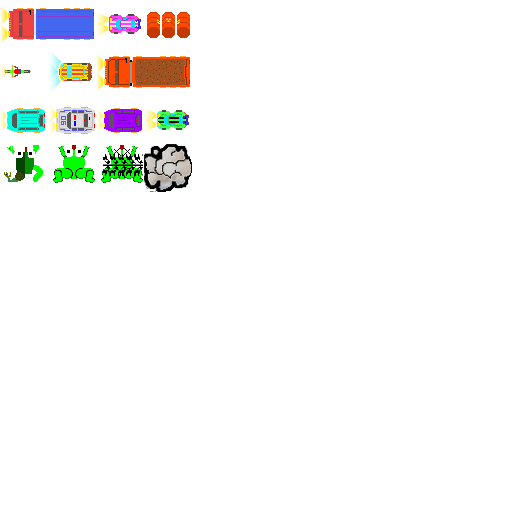
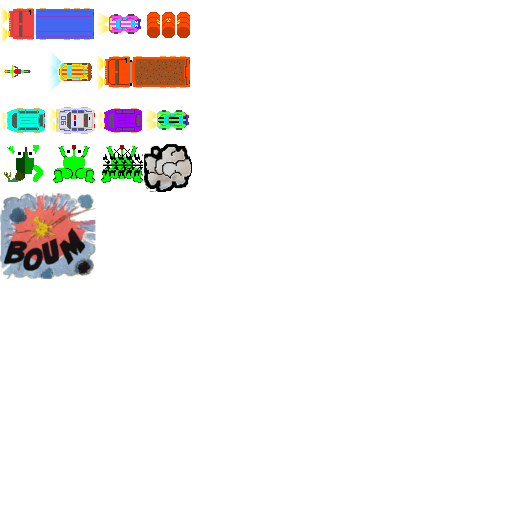
explosion des barils a une marge des frontieres du jeu, avec sprite
git-svn-id: https://svn.aep.polymtl.ca/svn/GCA3OursCureuil@66 05535eda-d6a5-4ac4-b685-4147b9d08a8c

Changed region(s): [[0.0, 0.375, 0.1875, 0.5625]]

diff --git a/ourscureuil/src/ca/polymtl/ourscureuil/Scene.java b/ourscureuil/src/ca/polymtl/ourscureuil/Scene.java
@@ -31,7 +31,7 @@ import com.badlogic.gdx.scenes.scene2d.ui.tablelayout.LibgdxToolkit;
 import com.sun.xml.internal.ws.api.message.Message;
 
 public class Scene {
-	private int w;
+	private int mWidth;
 	private int h;
 	private RenderTree renderTree;
 	private float timeToAddProjectile = 2.0f;
@@ -44,15 +44,17 @@ public class Scene {
 	public ArrayList<Frog> frogs = new ArrayList<Frog>();
 	public ArrayList<Projectile> projectiles = new ArrayList<Projectile>();
 	public ArrayList<DeadFrog> deadFrogs = new ArrayList<DeadFrog>();
-	public ArrayList<Barrel1> barrels = new ArrayList<Barrel1>();
+	//public ArrayList<Barrel1> barrels = new ArrayList<Barrel1>();
 	public ArrayList<CarCrashSmoke> carCrashSmokeClouds = new ArrayList<CarCrashSmoke>();
+	public ArrayList<BarrelExplosion> barrelExplosions = new ArrayList<BarrelExplosion>();
 	
 	
 	public Scene(int w,int h, RenderTree rt) {
-		
+		System.out.println("w:" + Integer.toString(w));
 		 java.util.Arrays.fill(activeProjectiles, false);
 		 renderTree = rt;
 		 setProjectilesWaypoints(w,h);
+		 this.mWidth = w;
 	}
 	
 	public void draw()
@@ -86,7 +88,9 @@ public class Scene {
 	public Actor addProjectile(int idPos, ProjectileType projectileType) {
 		
 		Stage stage = renderTree.getCurrentStage();
-		switch(projectileType) {
+		ProjectileType debug = ProjectileType.BARREL;
+		switch(debug) {
+		//switch(projectileType) {
 			case TRUCK1:
 				Truck1 newTruck1 = new Truck1(waypointsProjectiles[idPos]);
 				stage.addActor(newTruck1);
@@ -133,11 +137,11 @@ public class Scene {
 				projectiles.add(newCop1);
 				return newCop1;
 			case BARREL:
-				System.out.println("idPos:" +idPos);
-				if (idPos >= 8) {
-					System.out.println("idPos random too high");
-				}
-				System.out.println("wpp" + waypointsProjectiles[idPos]);
+//				System.out.println("idPos:" +idPos);
+//				if (idPos >= 8) {
+//					System.out.println("idPos random too high");
+//				}
+//				System.out.println("wpp" + waypointsProjectiles[idPos]);
 				Barrel1 newBarrel1 = new Barrel1(waypointsProjectiles[idPos]);
 				stage.addActor(newBarrel1);
 				projectiles.add(newBarrel1);
@@ -213,5 +217,10 @@ public class Scene {
 		frogs.add(frog);
 		frog.SetMovement(new Vector2(vX,vY));
 		
+	}
+	
+	public int getWidth() {
+		System.out.println("w:" + Integer.toString(this.mWidth));
+		return this.mWidth;
 	}
 }

diff --git a/ourscureuil/src/ca/polymtl/ourscureuil/BarrelExplosion.java b/ourscureuil/src/ca/polymtl/ourscureuil/BarrelExplosion.java
@@ -15,13 +15,13 @@ import com.badlogic.gdx.scenes.scene2d.actions.Repeat;
 import com.badlogic.gdx.scenes.scene2d.actions.RotateTo;
 import com.badlogic.gdx.scenes.scene2d.actions.Sequence;
 
-public class DeadFrog extends Node {
+public class BarrelExplosion extends Node {
 	
-	static final float HITBOX_WIDTH = 48.0f;
-	static final float HITBOX_HEIGHT = 48.0f;
+	static final float HITBOX_WIDTH = 96.0f;
+	static final float HITBOX_HEIGHT = 96.0f;
 	
-	public DeadFrog(Vector2 posStart, String nameOfNode) { //position start is left, bottom corner
-		super(posStart, nameOfNode);
+	public BarrelExplosion(Vector2 posStart /*, String nameOfNode*/) { //position start is left, bottom corner
+		super(posStart, "BarrelExplosion");
 		this.height = HITBOX_HEIGHT;
 		this.width  = HITBOX_WIDTH;
 		// TODO Auto-generated constructor stub
@@ -34,8 +34,9 @@ public class DeadFrog extends Node {
 	// w = 48
 	// h = 48
 	
-	static protected TextureRegion texregDead = new TextureRegion(projectileTextureList, 96, 144, 48, 48); //grenouille morte 
-	//static protected TextureRegion texregDead = new TextureRegion(projectileTextureList, 144, 144, 48, 48); //car crash smoke
+	//static protected TextureRegion texregDead = new TextureRegion(projectileTextureList, 96, 144, 48, 48); //grenouille morte 
+	//static protected TextureRegion texregBarrelExplosion = new TextureRegion(projectileTextureList, 144, 192, 96, 96); //car crash smoke
+	static protected TextureRegion texregBarrelExplosion = new TextureRegion(projectileTextureList, 0, 192, 96, 96); //barrel explosion
 	
 	
 	public void SetMovement(Vector2 movement) {
@@ -50,7 +51,7 @@ public class DeadFrog extends Node {
 		//System.out.println("(" + Double.toString(x) + "," + Double.toString(y) + ")");
 		
 		
-		batch.draw(texregDead,this.originX+this.x,this.originY+this.y,HITBOX_WIDTH/2,HITBOX_HEIGHT/2,HITBOX_WIDTH,HITBOX_HEIGHT,1.0f,1.0f,this.rotation);
+		batch.draw(texregBarrelExplosion,this.originX+this.x,this.originY+this.y,HITBOX_WIDTH/2,HITBOX_HEIGHT/2,HITBOX_WIDTH,HITBOX_HEIGHT,1.0f,1.0f,this.rotation);
 	}
 
 	@Override

diff --git a/ourscureuil/src/ca/polymtl/ourscureuil/InputResponse.java b/ourscureuil/src/ca/polymtl/ourscureuil/InputResponse.java
@@ -1,6 +1,7 @@
 package ca.polymtl.ourscureuil;
 
 import ca.polymtl.ourscureuil.*;
+import ca.polymtl.ourscureuil.projectiles.Barrel1;
 
 import com.badlogic.gdx.Gdx;
 import com.badlogic.gdx.input.GestureDetector.GestureListener;
@@ -14,6 +15,7 @@ public class InputResponse implements GestureListener {
 
 	Projectile mSelectedProjectile = null; //can be null
 	RenderTree theRenderTree;
+	Scene theScene;
 	
 	InputResponse() {
 		super();
@@ -21,6 +23,9 @@ public class InputResponse implements GestureListener {
 	
 	void registerRenderTree(RenderTree renderTree) {
 		theRenderTree = renderTree;
+	}
+	void registerScene(Scene scene) {
+		theScene = scene;
 	}
 	
 	void selectProjectileAtPosition(int x, int y) {
@@ -47,7 +52,9 @@ public class InputResponse implements GestureListener {
 		//System.out.println(actorFound.touchDragged(x, y, pointer));
 		//System.out.println(actorFound.);
 		
-		if (!actorFound.name.startsWith("projectile")) {
+		String nameOfSelected = actorFound.name;
+		String projectilePrefix = "projectile";
+		if (!nameOfSelected.startsWith(projectilePrefix)) {
 			//pas d/placable
 			mSelectedProjectile = null;
 			System.out.println("no actor found with name projectile");
@@ -56,6 +63,22 @@ public class InputResponse implements GestureListener {
 		
 		// si on arrive ici, alors on sait que l'actor choisit est un projectile
 		mSelectedProjectile = (Projectile)actorFound;
+		
+		
+		//bang on Barrel
+		
+		//remove projectileprefix
+		nameOfSelected = nameOfSelected.substring(projectilePrefix.length()); //beginning index is included, 
+		if (nameOfSelected.startsWith("Barrel1") ) {
+			Barrel1 mSelectedBarrel = (Barrel1) mSelectedProjectile;
+			if (mSelectedBarrel != null) {
+				System.out.println("width:" + Integer.toString(theScene.getWidth()));
+				mSelectedBarrel.explodeMaybe(
+						theRenderTree, 
+						theScene
+						); //48 est la moitié de largeur et hauteur
+			}
+		}
 		
 	}
 	

diff --git a/ourscureuil/src/ca/polymtl/ourscureuil/RenderTree.java b/ourscureuil/src/ca/polymtl/ourscureuil/RenderTree.java
@@ -162,6 +162,16 @@ public class RenderTree {
 	private final float DURATION_OF_CADAVER_IN_SECONDS = 1f;
 	private final float DURATION_OF_SMOKE_CLOUD_IN_SECONDS = 1f;
 	
+	public void killAllFrog(ArrayList<DeadFrog> deadFrogs,
+			ArrayList<Frog> liveFrogs) {
+		while(!liveFrogs.isEmpty()) {
+			int indexOfLiveFrog = liveFrogs.size()-1;
+			Node frogToKill = liveFrogs.get(liveFrogs.size()-1);
+			killFrog(frogToKill, deadFrogs, liveFrogs, indexOfLiveFrog);
+		}
+	}
+	
+	
 	private void killFrog(Node frogToKill, ArrayList<DeadFrog> deadFrogs, ArrayList<Frog> liveFrogs, int indexOfLifeFrog) {
 		final DeadFrog cadaver = new DeadFrog(new Vector2(frogToKill.x, frogToKill.y), "dead"+frogToKill.name);
 		deadFrogs.add(cadaver);

diff --git a/ourscureuil/src/ca/polymtl/ourscureuil/Projectile.java b/ourscureuil/src/ca/polymtl/ourscureuil/Projectile.java
@@ -28,8 +28,8 @@ public abstract class Projectile extends Node {
 	
 	public abstract float GetProjectileMaxSpeed();
 	
-	public Projectile( Vector2 posStart ) {
-		super ( posStart, new String("projectile").concat( new Integer(projectileId).toString()) );
+	public Projectile( Vector2 posStart , String nomSpecifique) {
+		super ( posStart, new String("projectile"+nomSpecifique).concat( new Integer(projectileId).toString()) );
 		if(projectileTextureList == null) {
 			projectileTextureList = new Texture(Gdx.files.internal("data/vehicles_512.png"));
 			projectileTextureList.setFilter(TextureFilter.Linear, TextureFilter.Linear);

diff --git a/ourscureuil/src/ca/polymtl/ourscureuil/MyGdxGame.java b/ourscureuil/src/ca/polymtl/ourscureuil/MyGdxGame.java
@@ -43,6 +43,7 @@ public class MyGdxGame implements ApplicationListener {
 		//Spawn les objets pour le level 1
 		//scene = new Scene(deviceWidth,deviceHeight,renderTree);
 		scene = new Scene(800,480,renderTree);
+		inputResponse.registerScene(scene);
 		renderTree.getCurrentStage().addActor(new LevelBG("data/level1v2_1024.png"));
 	}
 

diff --git a/ourscureuil/src/ca/polymtl/ourscureuil/Score.java b/ourscureuil/src/ca/polymtl/ourscureuil/Score.java
@@ -29,10 +29,11 @@ public class Score {
 	}
 	
 	public void killALife() {
-		if(remainingLife > 0)
-			remainingLife--;
-		else
-			gameOver = true;
+		///debug
+//		if(remainingLife > 0)
+//			remainingLife--;
+//		else
+//			gameOver = true;
 	}
 	
 	public boolean isGameOver() {
